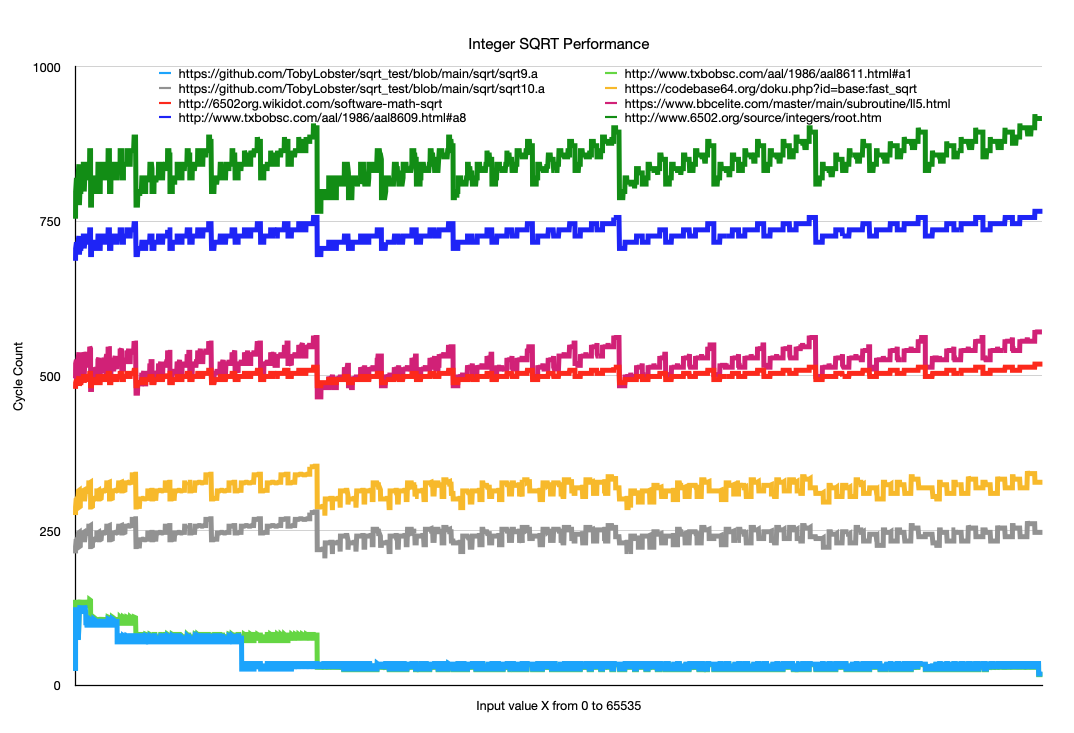
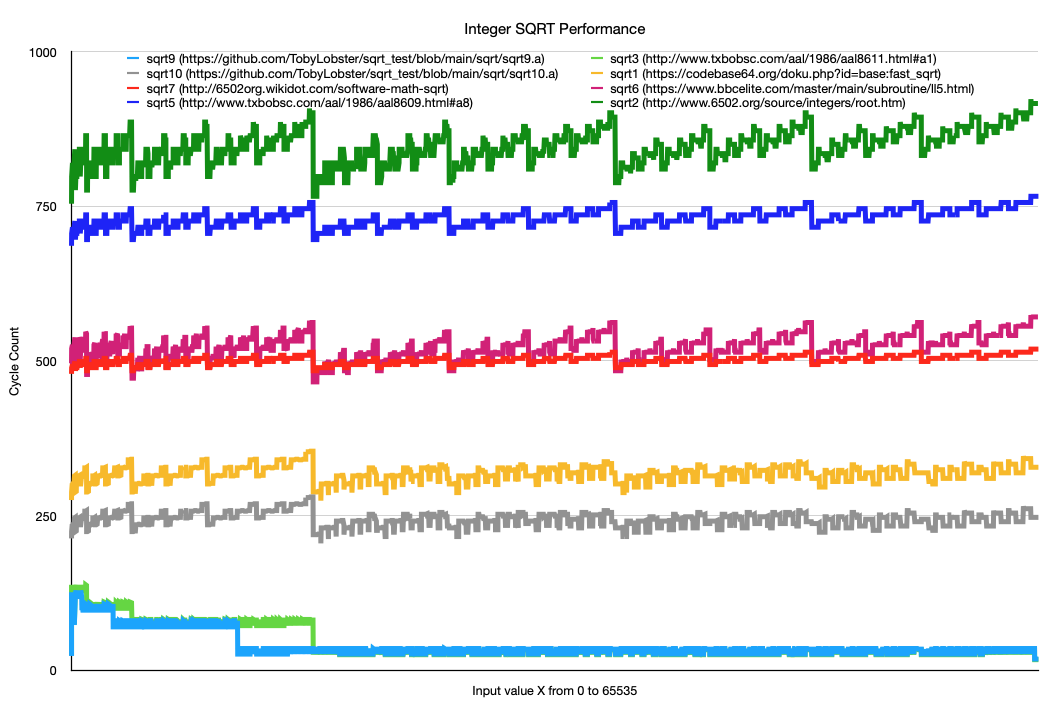
Updated labels

Changed region(s): [[0.0, 0.0311, 0.9934, 0.9944]]

diff --git a/test.py b/test.py
@@ -165,18 +165,18 @@ def task10_post(mon, symbols, v):
 
 
 # 1. Add tasks
-add_task("https://codebase64.org/doku.php?id=base:fast_sqrt", "sqrt/sqrt1.a", "start", task1_pre, task1_post, expect)
-add_task("http://www.6502.org/source/integers/root.htm",      "sqrt/sqrt2.a", "SqRoot", task2_pre, task2_post, expect)
-add_task("http://www.txbobsc.com/aal/1986/aal8611.html#a1",   "sqrt/sqrt3.a", "SQRT", task3_pre, task3_post, expect)
+add_task("sqrt1 (https://codebase64.org/doku.php?id=base:fast_sqrt)", "sqrt/sqrt1.a", "start", task1_pre, task1_post, expect)
+add_task("sqrt2 (http://www.6502.org/source/integers/root.htm)",      "sqrt/sqrt2.a", "SqRoot", task2_pre, task2_post, expect)
+add_task("sqrt3 (http://www.txbobsc.com/aal/1986/aal8611.html#a1)",   "sqrt/sqrt3.a", "SQRT", task3_pre, task3_post, expect)
 #too slow!
-#add_task("http://www.txbobsc.com/aal/1985/aal8506.html#a2",   "sqrt/sqrt4.a", "SQRT", task4_pre, task4_post, expect)
-add_task("http://www.txbobsc.com/aal/1986/aal8609.html#a8",   "sqrt/sqrt5.a", "SQR3", task5_pre, task5_post, expect)
-add_task("https://www.bbcelite.com/master/main/subroutine/ll5.html", "sqrt/sqrt6.a", "LL5", task6_pre, task6_post, expect)
-add_task("http://6502org.wikidot.com/software-math-sqrt",     "sqrt/sqrt7.a", "start", task7_pre, task7_post, expect)
+#add_task("sqrt4 (http://www.txbobsc.com/aal/1985/aal8506.html#a2)",   "sqrt/sqrt4.a", "SQRT", task4_pre, task4_post, expect)
+add_task("sqrt5 (http://www.txbobsc.com/aal/1986/aal8609.html#a8)",   "sqrt/sqrt5.a", "SQR3", task5_pre, task5_post, expect)
+add_task("sqrt6 (https://www.bbcelite.com/master/main/subroutine/ll5.html)", "sqrt/sqrt6.a", "LL5", task6_pre, task6_post, expect)
+add_task("sqrt7 (http://6502org.wikidot.com/software-math-sqrt)",     "sqrt/sqrt7.a", "start", task7_pre, task7_post, expect)
 #too slow!
-#add_task("https://mdfs.net/Info/Comp/6502/ProgTips/SqRoot",     "sqrt/sqrt8.a", "sqr", task8_pre, task8_post, expect)
-add_task("https://github.com/TobyLobster/sqrt_test/blob/main/sqrt/sqrt9.a", "sqrt/sqrt9.a", "sqrt16", task9_pre, task9_post, expect)
-add_task("https://github.com/TobyLobster/sqrt_test/blob/main/sqrt/sqrt10.a", "sqrt/sqrt10.a", "start", task10_pre, task10_post, expect)
+#add_task("sqrt8 (https://mdfs.net/Info/Comp/6502/ProgTips/SqRoot)",     "sqrt/sqrt8.a", "sqr", task8_pre, task8_post, expect)
+add_task("sqrt9 (https://github.com/TobyLobster/sqrt_test/blob/main/sqrt/sqrt9.a)", "sqrt/sqrt9.a", "sqrt16", task9_pre, task9_post, expect)
+add_task("sqrt10 (https://github.com/TobyLobster/sqrt_test/blob/main/sqrt/sqrt10.a)", "sqrt/sqrt10.a", "start", task10_pre, task10_post, expect)
 
 # 2. Run tasks
 spreadsheet = run_tasks()

diff --git a/readme.md b/readme.md
@@ -1,6 +1,6 @@
 ## 6502 Integer Square Root - which is best? ##
 
-The purpose of this page is to compare the performance of several different implementations of a 16 bit integer square root on the 6502 CPU, to find out which is best.
+The purpose of this page is to compare the performance and memory cost of several different implementations of a 16 bit integer square root on the 6502 CPU, to find out which is best.
 This function is sometimes known as isqrt, and conventionally it rounds down the result, so the result fits in 8 bits.
 
 See the Wikipedia page for [integer square root](https://en.wikipedia.org/wiki/Integer_square_root) for details of algorithms.
